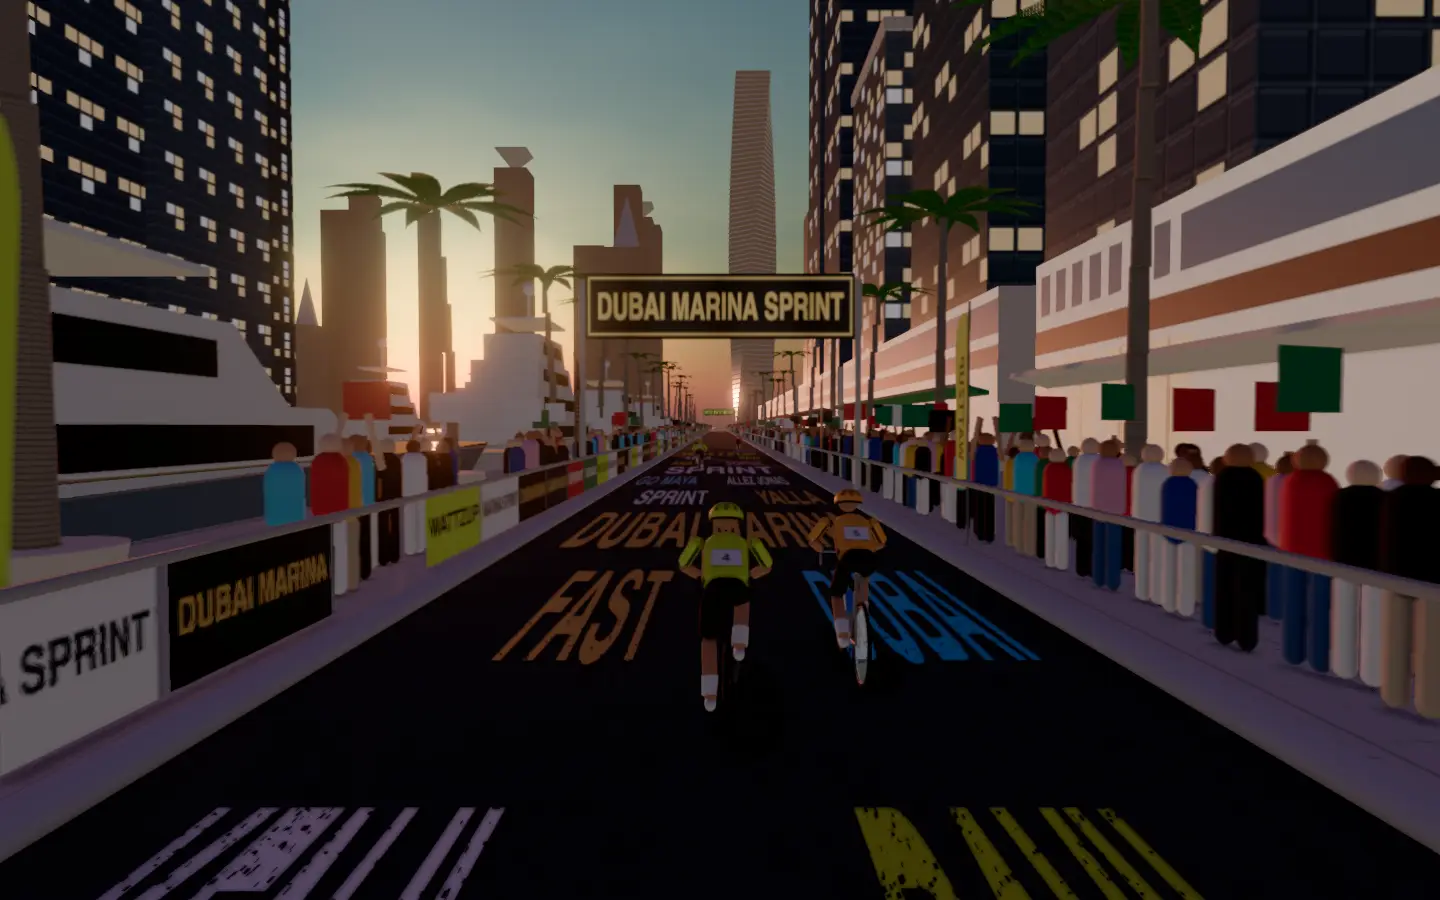
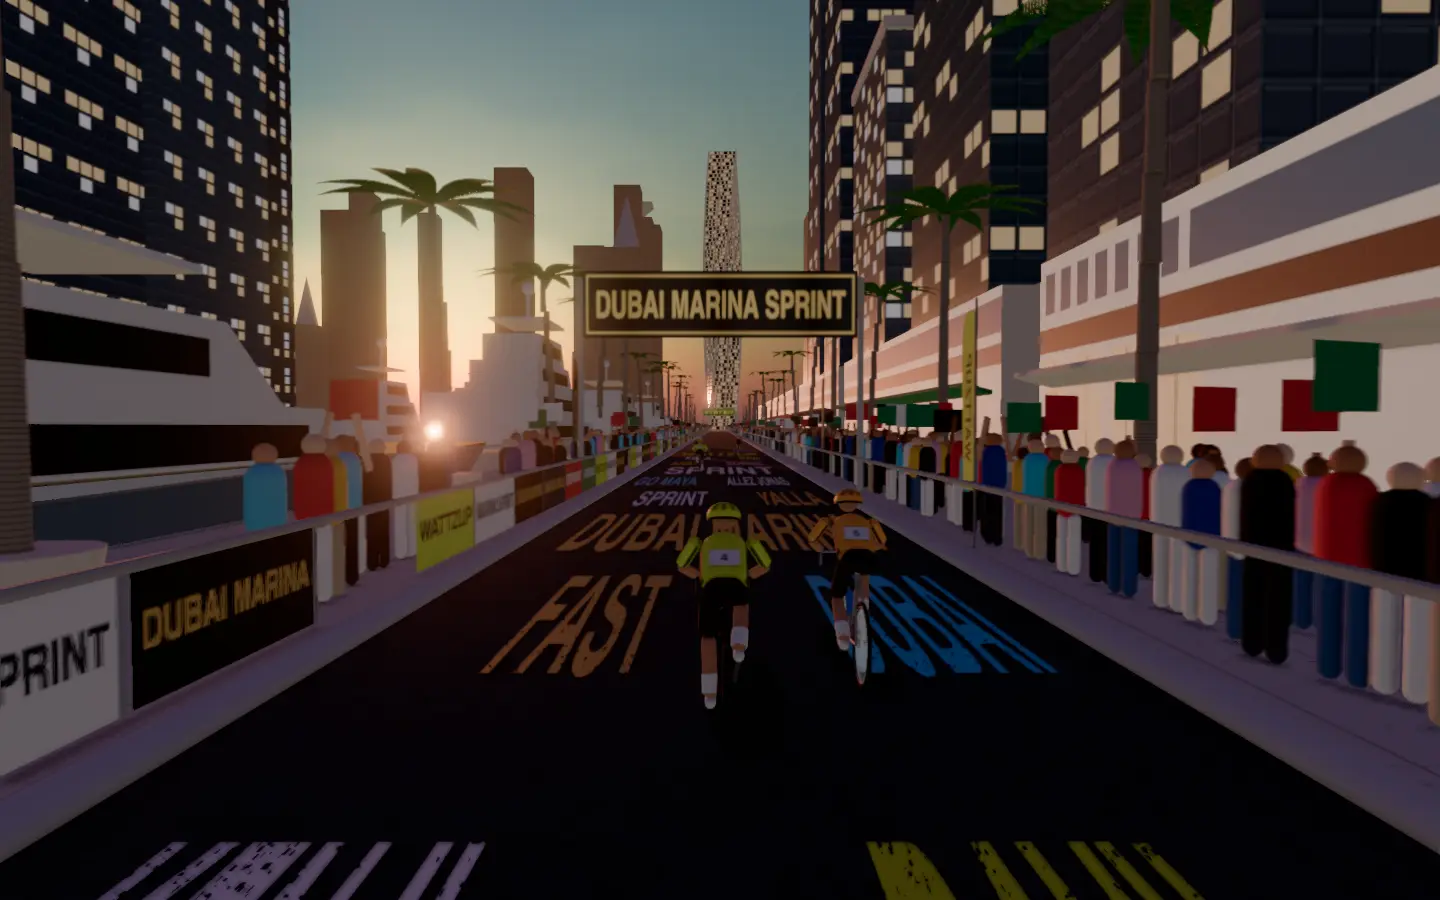
Stand Dubai Marina's Cayan Tower at the end of the walk, its columns spiralling

diff --git a/frontend/projects/wattzup/src/app/core/world-dubai.ts b/frontend/projects/wattzup/src/app/core/world-dubai.ts
@@ -56,6 +56,24 @@ const CROWD_NEAR = 4.4;
 const CROWD_FAR = 6.6;
 /** The quay's edge on the left, the glass rail along it and the marina's water below. */
 const QUAY = 10;
+/**
+ * One floor of the Cayan Tower's glass around a face: ten bays of blue glass, some lit warm.
+ * With `lit`, only the lit bays, on black, for the emissive map.
+ */
+function cayanTexture(lit: boolean): CanvasTexture {
+  return canvasTexture(256, 16, (g) => {
+    g.fillStyle = lit ? '#000000' : '#34506c';
+    g.fillRect(0, 0, 256, 16);
+    const random = seeded(5275);
+    for (let bay = 0; bay < 20; bay++) {
+      const on = random() < 0.45;
+      if (lit && !on) continue;
+      g.fillStyle = lit ? '#ffcf96' : on ? '#e8c090' : '#4a6a88';
+      g.fillRect(bay * 12.8 + 1, 2, 10.8, 12);
+    }
+  });
+}
+
 /** The podium's shopfronts on the right, the towers rising behind them. */
 const PODIUM = 12;
 /** The horizon this far ahead. */
@@ -514,9 +532,14 @@ export class DubaiStreet implements SceneStreet {
     const STOREY = 4.2;
     const glassParts: BufferGeometry[] = [];
     const frameParts: BufferGeometry[] = [];
+    const lights = seeded(5273);
     for (let f = 0; f < FLOORS; f++) {
       const turn = (f / FLOORS) * (Math.PI / 2);
       const pane = new BoxGeometry(30, STOREY - 0.6, 30);
+      // Each floor's windows lit in their own pattern: its band of the texture slid along.
+      const uv = pane.getAttribute('uv') as BufferAttribute;
+      const slide = Math.floor(lights() * 10) / 10;
+      for (let i = 0; i < uv.count; i++) uv.setX(i, uv.getX(i) + slide);
       pane.rotateY(turn);
       pane.translate(0, f * STOREY + STOREY / 2, 0);
       glassParts.push(pane);
@@ -524,7 +547,27 @@ export class DubaiStreet implements SceneStreet {
       slab.rotateY(turn);
       slab.translate(0, f * STOREY + 0.3, 0);
       frameParts.push(slab);
+      // The white columns at its corners and across each face, turned with the floor, so they
+      // spiral up the tower a quarter turn from its foot to its crown.
+      for (const [cx, cz, w] of [
+        [15.4, 15.4, 1.6],
+        [15.4, -15.4, 1.6],
+        [-15.4, 15.4, 1.6],
+        [-15.4, -15.4, 1.6],
+        [15.6, 0, 0.9],
+        [-15.6, 0, 0.9],
+        [0, 15.6, 0.9],
+        [0, -15.6, 0.9],
+      ] as const) {
+        const column = new BoxGeometry(w, STOREY, w);
+        column.translate(cx, f * STOREY + STOREY / 2, cz);
+        column.rotateY(turn);
+        frameParts.push(column);
+      }
     }
+    const cayanWindows = this.track(cayanTexture(false));
+    const cayanLit = this.track(cayanTexture(true));
+    for (const t of [cayanWindows, cayanLit]) t.wrapS = RepeatWrapping;
     const cayanGlass = mergeGeometries(glassParts)!;
     const cayanFrame = mergeGeometries(frameParts)!;
     [...glassParts, ...frameParts].forEach((g) => g.dispose());
@@ -533,16 +576,25 @@ export class DubaiStreet implements SceneStreet {
     cayan.add(
       new Mesh(
         cayanGlass,
-        hazedMaterial(this.disposables, haze, 0x3a5878, 0.18, {
-          emissive: new Color(0xffc890),
-          emissiveIntensity: 0.12,
-          metalness: 0.5,
+        hazedMaterial(this.disposables, haze, 0x3a5878, 0.12, {
+          map: cayanWindows,
+          emissive: new Color(0xffffff),
+          emissiveMap: cayanLit,
+          emissiveIntensity: 0.9,
+          metalness: 0.45,
           roughness: 0.2,
         }),
       ),
-      new Mesh(cayanFrame, hazedMaterial(this.disposables, haze, 0xf4f0ea, 0.2)),
+      new Mesh(
+        cayanFrame,
+        hazedMaterial(this.disposables, haze, 0xe8e2da, 0.15, {
+          emissive: new Color(0xffd8b0),
+          emissiveIntensity: 0.08,
+        }),
+      ),
     );
-    cayan.position.set(30, -2, -420);
+    // On the line of the walk, rising over everything at its end.
+    cayan.position.set(4, -2, -620);
     h.add(cayan);
     // The towers about it, of every height, glass alight, hazed with distance.
     const random = seeded(5271);
@@ -561,8 +613,8 @@ export class DubaiStreet implements SceneStreet {
     const crown = hazedMaterial(this.disposables, haze, 0xf0e8dc, 0.3);
     for (let k = 0; k < 34; k++) {
       const x = -520 + random() * 1000;
-      if (Math.abs(x - 30) < 40) continue;
       const z = -300 - random() * 500;
+      if (Math.abs(x - 4) < 60) continue;
       const tall = 80 + random() * 220;
       const w = 22 + random() * 20;
       const tower = new Mesh(box, tints[k % tints.length]!);

diff --git a/docs/class-worlds.md b/docs/class-worlds.md
@@ -55,7 +55,7 @@ Every class in `frontend/public/classes.json`, with its World Ride scene. Render
 | 49 | 20 Minutes to Work on Your Cadence | Strade Bianche | 80% | White gravel roads wind between lines of dark cypresses across the golden Crete Senesi toward Siena, the Torre del Mangia and the Duomo's striped campanile on the ridge ahead, as tifosi line the dusty banks under the sector banners and stone farmhouses watch from the olive groves. The minute's warm-up rolls out over the first white sector, the efforts from half a minute to a minute spin up the cadence on the gravel rises between the cypresses, and the easy minutes coast the dust down past the farmhouses toward the hill town. |
 | 50 | 30 Sec On, 2 Min Off | Havana Malecón | 75% | Waves crash over the seawall; classic cars and pastel façades between surges. |
 | 51 | Short 20 Minute Sprint Blitz | Holi in Jaipur (concept) |  | Colour-powder clouds in the Pink City's streets; sprint through every burst of festival colour. |
-| 52 | Sprint Into the Effort | Dubai Marina | 70% | The marina walk runs along the water at dusk between the glass towers of Dubai Marina, superyachts moored at the pontoons and palms in their planters, as a crowd in white kandura and bright summer colours lines the barriers and the twisting Cayan Tower glows against the orange and violet sky ahead. The two minutes' warm-up rolls out under the first sprint banner, the half-minute sprints flash past the yachts at full gas, and the three-minute efforts hold the pace past the lit cafés of the podium before the easy minutes spin beneath the towers. |
+| 52 | Sprint Into the Effort | Dubai Marina | 73% | The marina walk runs along the water at dusk between the glass towers of Dubai Marina, superyachts moored at the pontoons and palms in their planters, as a crowd in white kandura and bright summer colours lines the barriers and the twisting Cayan Tower glows against the orange and violet sky ahead. The two minutes' warm-up rolls out under the first sprint banner, the half-minute sprints flash past the yachts at full gas, and the three-minute efforts hold the pace past the lit cafés of the podium before the easy minutes spin beneath the towers. |
 | 53 | 20/40 Interval Session | Sea Point, Cape Town | 74% | Promenade beneath Lion's Head and Table Mountain, Atlantic waves rolling in. |
 | 54 | Time to Spin Out | Overseas Highway (concept) |  | Turquoise water on both sides along the Florida Keys' Seven Mile Bridge. |
 | 55 | Spin to Win Cadence Session | Lee Valley Velodrome (concept) |  | Steep timber boards of London's Olympic track under bright arena lights. |

diff --git a/docs/detailed-designs/world-ride/draw-class-scene/README.md b/docs/detailed-designs/world-ride/draw-class-scene/README.md
@@ -515,7 +515,7 @@ None.
   - the evening crowd (the shared crowd) in white kandura, black abaya and bright summer colours, packed along the podium side and in a loose single row on the quay side so the marina shows, some with flags in the UAE's green, white, black and red, some with their arms up;
   - on the left the pale stone paving of the walk out to the quay's edge 10 m off the crown, its glass rail with a steel cap, the kit's palms in round stone planters, the marina's water below, superyachts (the kit's yachts, shared with Monaco) moored in two rows off the quay, and across the water the far side's towers, their glass alight;
   - on the right the podium: two floors of shops and cafés with lit fronts under awnings, and a glass tower rising from each block, set back, 60 to 210 m tall, its windows coming alight, a spire on every third;
-  - ahead the marina's skyline: the Cayan Tower twisting a quarter turn from foot to crown, its white floor slabs spiralling up its glass, among towers of every height, some with spires and some with flared crowns, all hazed by hand. Everything along the road is hidden past 280 m.
+  - ahead the marina's skyline: the Cayan Tower on the line of the walk at its end, 315 m tall and twisting a quarter turn from foot to crown, its white floor slabs and the white columns at its corners and across its faces spiralling up its blue glass, every floor's windows lit warm in its own pattern, the towers about it kept clear so its silhouette shows, among towers of every height, some with spires and some with flared crowns, all hazed by hand. Everything along the road is hidden past 280 m.
 
   `lay`, `place` and `setTime` recycle it along a 500 m loop, and `sink` drops the ground under the water.
 
